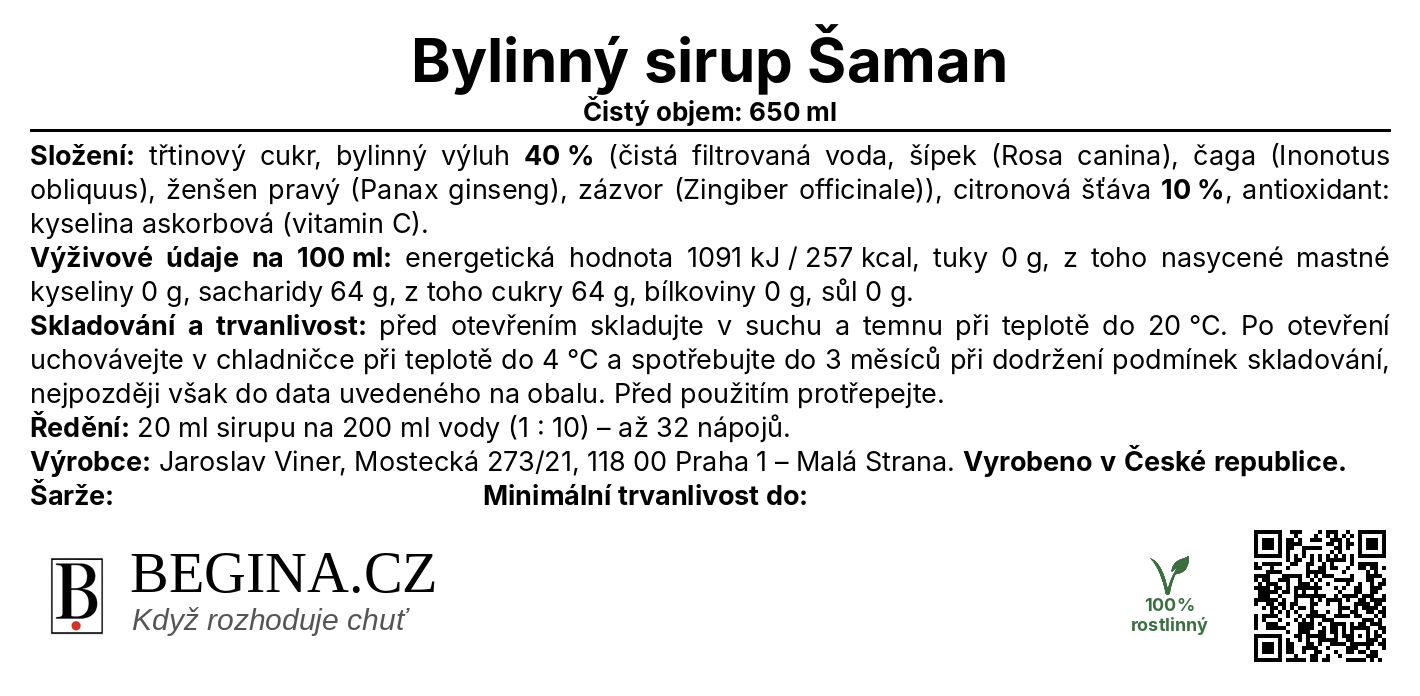
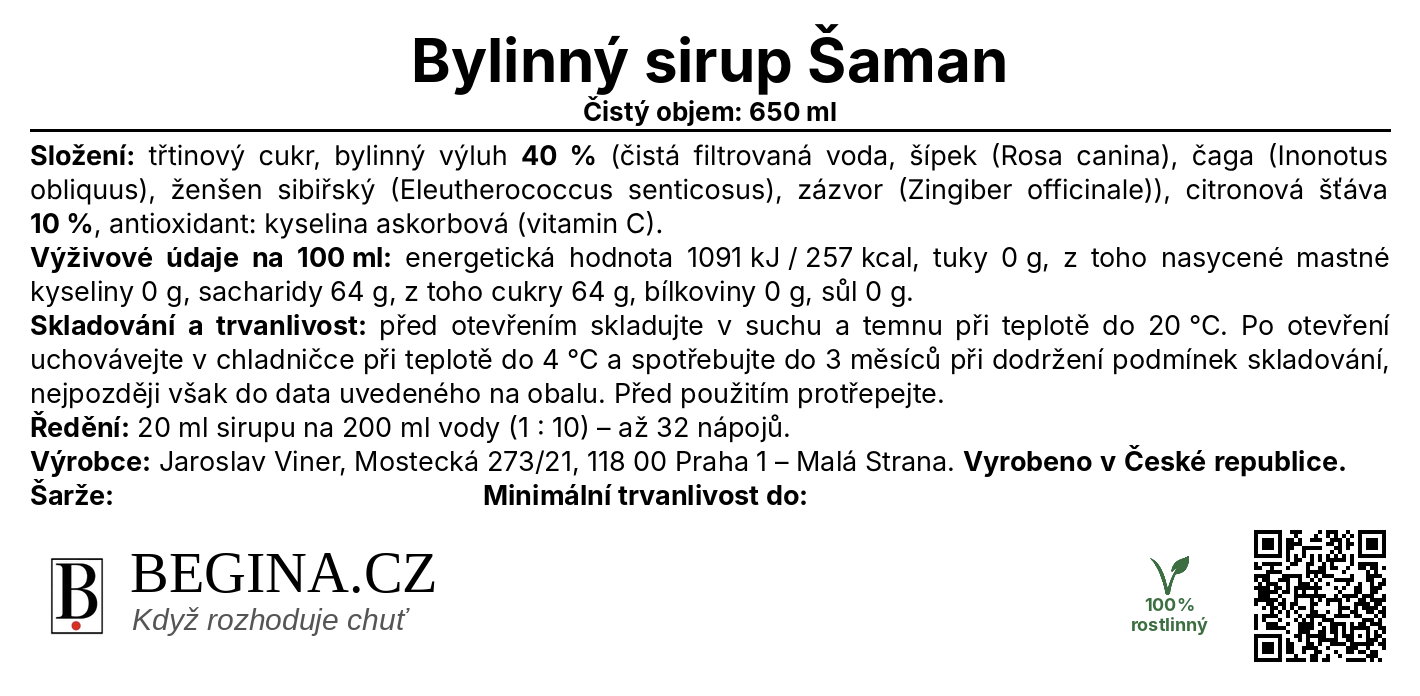
Etikety: 8 čajů (po otevření 14 dnů), sirup Šaman se ženšenem sibiřským
Claude-Session: https://claude.ai/code/session_016QL8fwi582oSosBu6SYFuT

Changed region(s): [[0.0, 0.2112, 0.9915, 0.3621]]

diff --git a/dashboard/lib/etikety/manifest.ts b/dashboard/lib/etikety/manifest.ts
@@ -12,6 +12,16 @@ export const ETIKETY_MANIFEST: Record<string, string[]> = {
     "lady-carneval.png",
     "svarak-deluxe.png"
   ],
+  "caje": [
+    "bylinny-caj-saman.png",
+    "cerny-caj-golden-nepal.png",
+    "hermankovy-caj.png",
+    "ibiskovy-caj.png",
+    "jasminovy-zeleny-caj.png",
+    "lipovy-caj.png",
+    "medunkovy-caj-s-levanduli.png",
+    "zazvorovy-caj.png"
+  ],
   "ovocne-napoje": [
     "cervankove-nebe.png",
     "dum-u-jezera.png",
